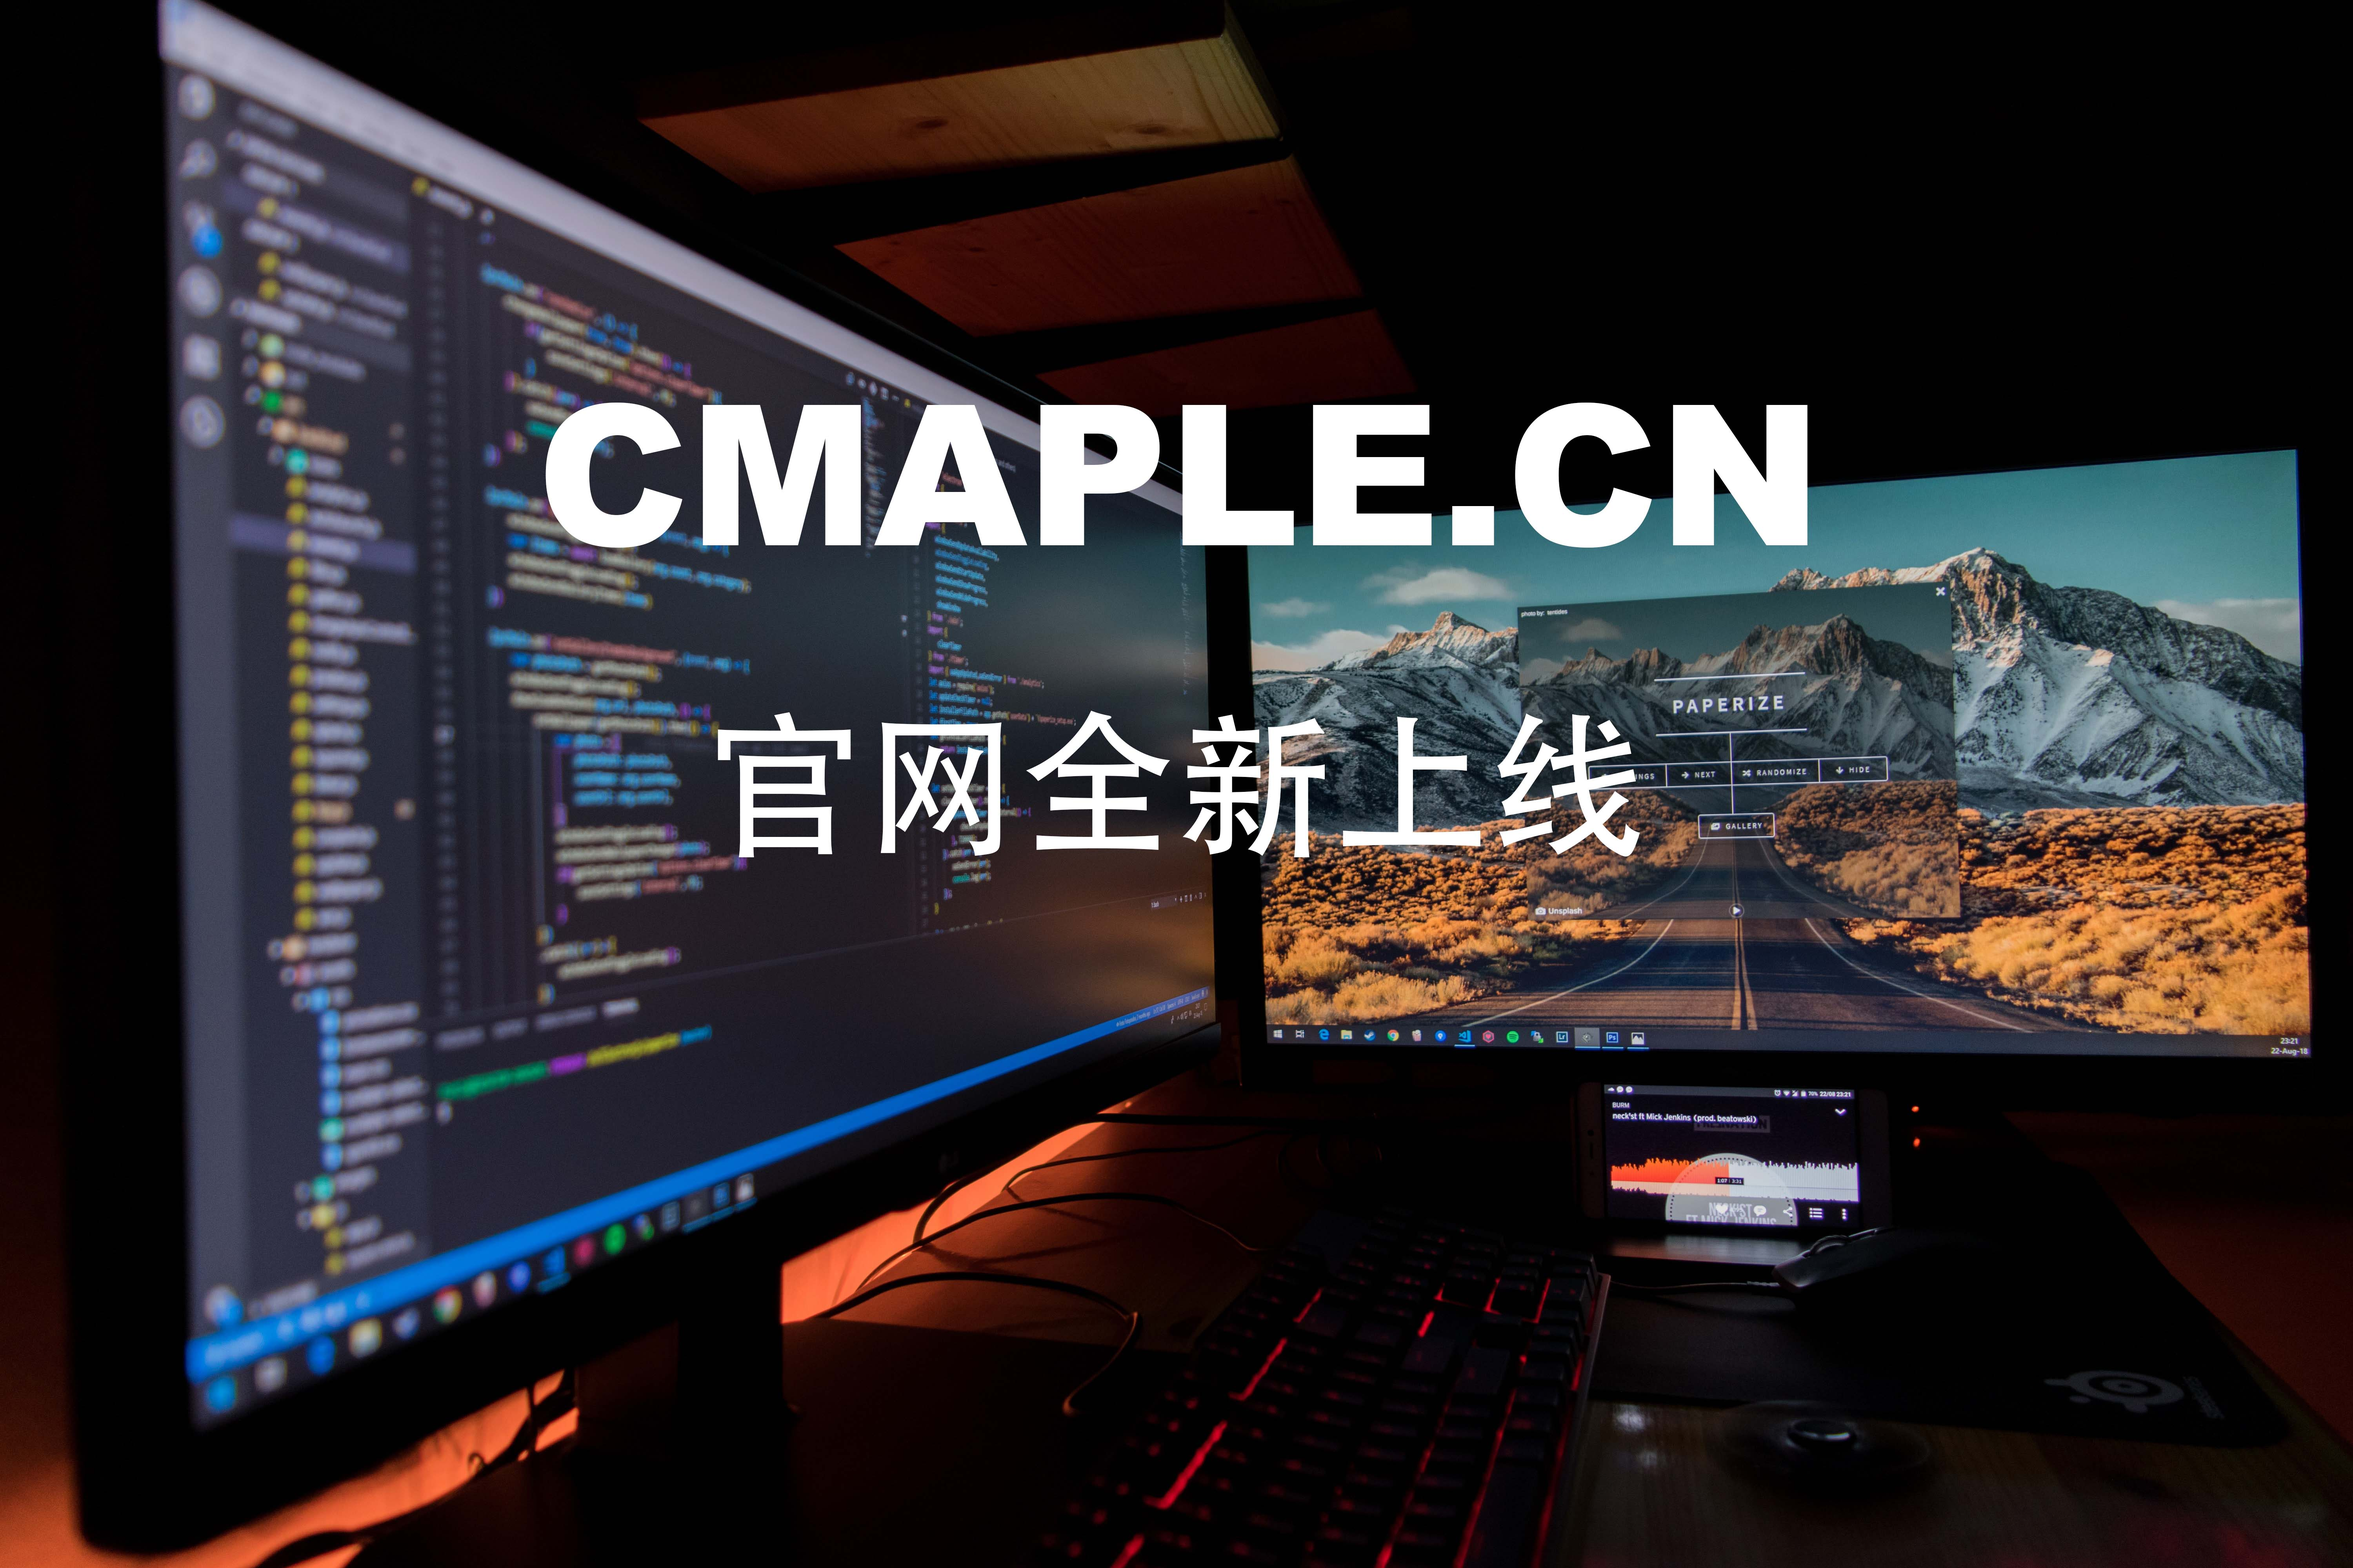
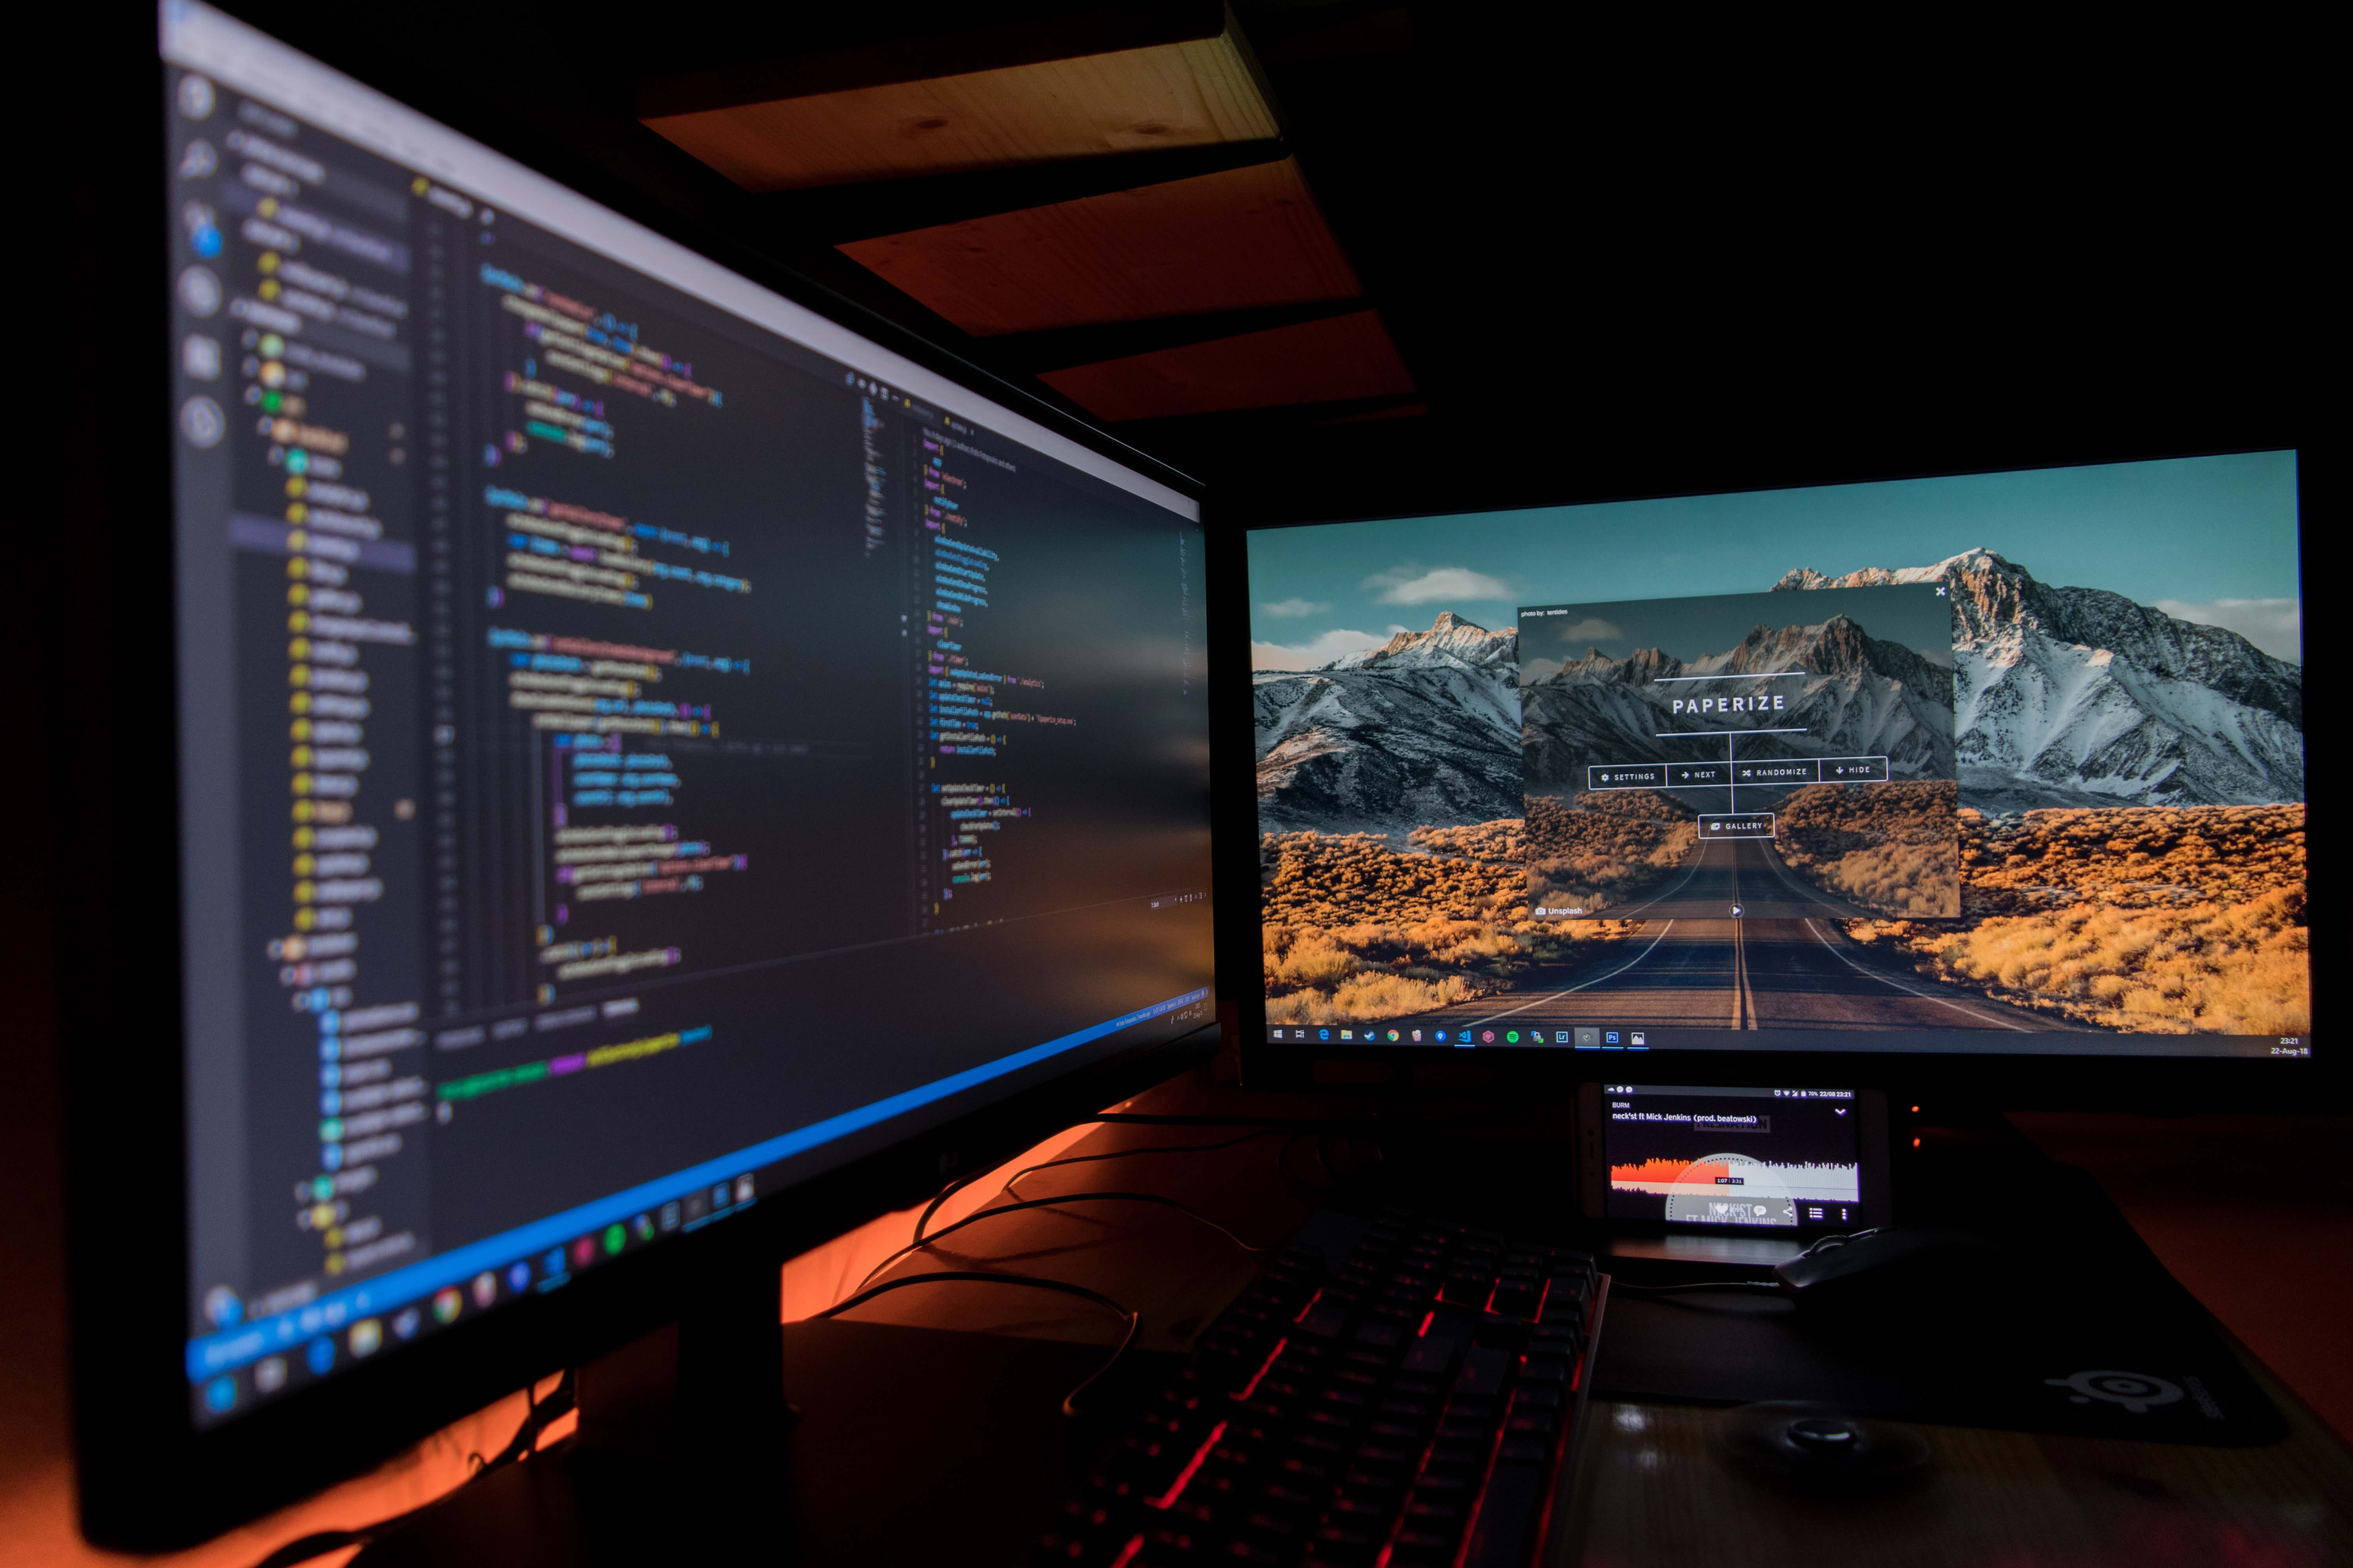
主页面图片文字转为div文字，关于页面制做了部分

Changed region(s): [[0.2182, 0.25, 0.7792, 0.375], [0.3117, 0.4375, 0.7168, 0.5625]]

diff --git a/src/components/About.vue b/src/components/About.vue
@@ -4,7 +4,7 @@
     <div id="homepage_font" :style="{height:pageheight+'px'},{backgroundImage:'url('+homepageImgUrl+')'}">
       <!-- 官网LOGO -->
       <div style="width: 50px;height: 50px;float: left;margin: 10px 0px 0px 20px;">
-         <a :href="HomePageUrl" style="text-decoration: none;">
+        <a :href="HomePageUrl" style="text-decoration: none;">
            <img style="width: 40px;" src="../../static/logo.png">
          </a>
       </div>
@@ -43,57 +43,21 @@
         </div>
         <!-- 约束宽度 -->
         <div style="width: 1024px;margin:0 auto 0;" :style="{height:pageheight - 50 +'px'}">
-          <!-- 标题 -->
-          <div style="width: 1024px;position: absolute;bottom: 48%;">
-            <font style="color: #FFF;font-size: 120px;font-weight: 900;letter-spacing: 0.08em;">CMAPLE.CN</font>
+          <!-- 关于标题 -->
+          <div style="width: 1024px;position: absolute;top: 38%;">
+            <font style="color: #FFF;font-size: 80px;font-weight: 900;letter-spacing: 0.08em;">关于CMAPLE.CN</font>
           </div>
-          <!-- 文字 -->
-          <div style="width: 1024px;position: absolute;bottom: 36%;">
-            <font style="color: #FFF;font-size: 80px;font-weight: 900;letter-spacing: 0.08em;">官网全新上线</font>
-          </div>
-          <!-- 文字超链接 -->
-          <div style="width: 1024px;height: 40px;position: absolute;bottom: 25%;">
-            <a :href="HomePageUrl" id = "main_font_a">
-              <font>了解更多</font>
-            </a>
-          </div>
-           <!-- 向下标记 -->
-          <div style="width: 1024px;height: 40px;  position: absolute;bottom: 10px;">
-            <a href="" title="">
-              <img id="bottom_img" src="../../static/bottom.png">
-            </a>
+          <!-- 关于说明 -->
+          <div style="width: 600px;position: absolute;top: 54%;left:50%;margin-left:-300px;">
+            <font style="color: #FFF;font-size: 20px;font-weight: 400;">
+              Iconfont-国内功能很强大且图标内容很丰富的矢量图标库,提供矢量图标下载、在线存储、格式转换等功能。阿里巴巴体验团队倾力打造,设计和前端开发的便捷工具
+            </font>
           </div>
         </div>
     </div>
-    <!-- 官网说明 - 描述网站和工作室的内容 -->
+    <!-- 说明 - 描述网站和工作室的内容 -->
     <div style="width: 100%;">
-      <!-- 限宽 -->
-      <div style="width: 1024px;margin: 0 auto 0;">
-        <!-- 关于CMAPLE.CN -->
-        <div style="width: 100%;display: inline-block;vertical-align: top;">
-          <div style="text-align: left;padding: 80px 0 0 0;">
-            <font style="font-size: 30px;font-weight: 600;">关于CMAPLE.CN</font> 
-          </div>
-          <div style="text-align: left;padding: 30px 80px 0px 0;">
-            <font style="">
-              CMAPLE.CN致力于让网站的搭建变的更加轻松快捷，让个人网站的普及成为可能。
-            </font>
-          </div>
-          <div style="text-align: left;padding: 20px 80px 0px 0;">
-            <font style="">
-              CMAPLE.CN主要业务范围也为网站搭建&第三方插件/程序的开发。我们将尝试简单快捷的图形化网站开发程序，但是如果我们的工作可以帮助其他人实现这一目标，我们也将认为我们的使命已经实现。
-            </font>
-          </div>
-          <div style="text-align: left;padding: 30px 0px 0px 0;">
-            <a :href="AboutPageUrl" id = "about_font_a">
-              <font>了解更多详细信息</font>
-            </a>
-          </div>
-          <div style="padding: 40px 0px 80px 0;">
-            <img style="width: 100%;border-radius:20px;" src="../../static/homepage_about.jpg">
-          </div>
-        </div>
-      </div>
+    
     </div>
     <!-- 分割线 -->
     <div class="divider div-transparent"></div>
@@ -252,7 +216,7 @@ export default {
       //关于页面路由
       AboutPageUrl:'/About',
       //主页图片
-      homepageImgUrl:'../../static/background.jpg',
+      homepageImgUrl:'../../static/about_background.jpg',
       // 备案号
       record_No:'浙ICP备19041141号',
       // 网站运营时间

diff --git a/src/router/index.js b/src/router/index.js
@@ -2,6 +2,7 @@ import Vue from 'vue'
 import Router from 'vue-router'
 import HelloWorld from '@/components/HelloWorld'
 import HomePage from '@/components/HomePage'
+import About from '@/components/About'
 
 Vue.use(Router)
 
@@ -11,6 +12,12 @@ export default new Router({
       path: '/',
       name: 'HomePage',
       component: HomePage
-    }
-  ]
+    },
+    {
+      path: '/About',
+      name: 'About',
+      component: About
+    },
+  ],
+  mode: 'history',
 })
